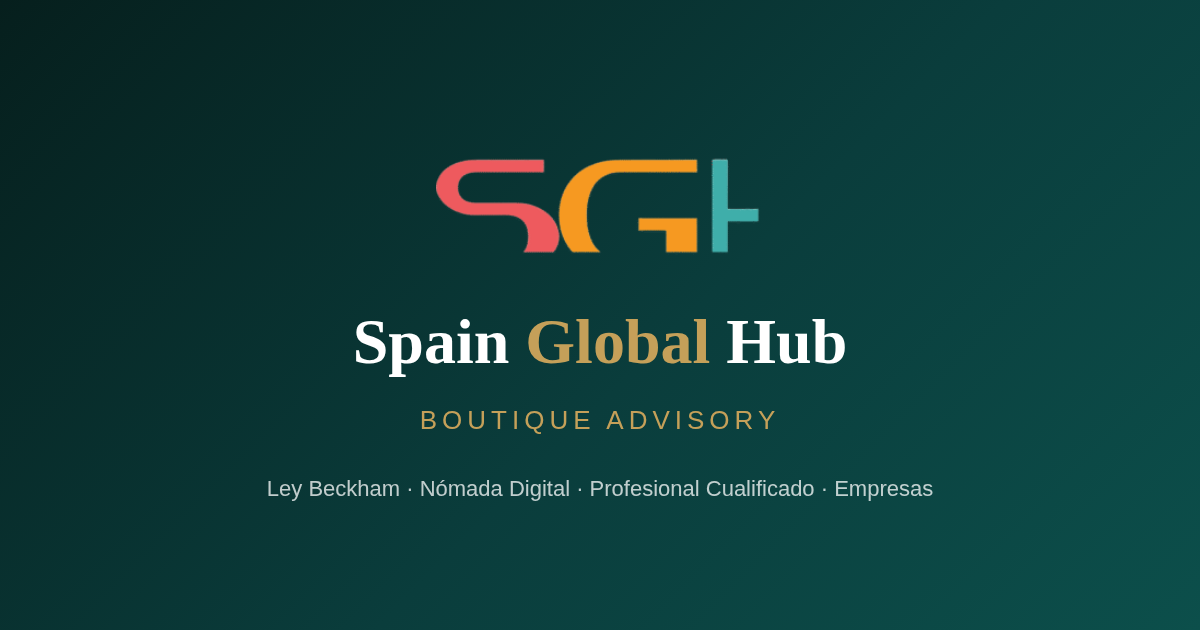
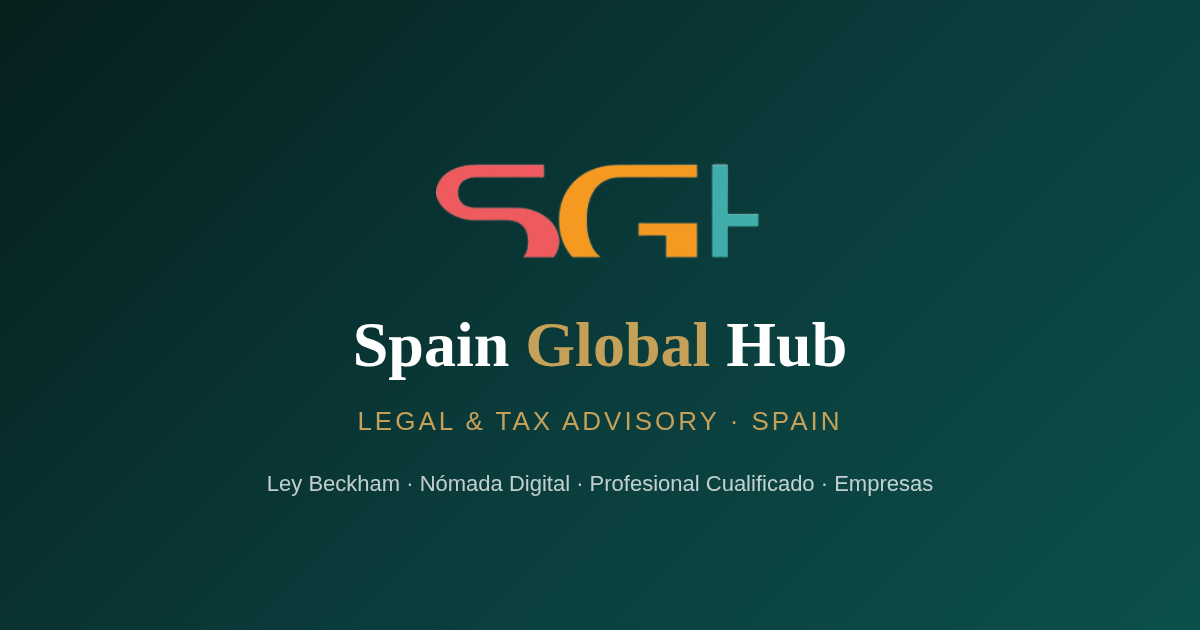
Descriptor de marca por idioma en cabecera y og-image ('Asesoría legal y fiscal para establecerse en España' / 'Legal & tax advisory for relocating to Spain' / FR) en lugar de 'Boutique Advisory'; H1 About EN
Claude-Session: https://claude.ai/code/session_01CtqNuwNKjsp65xMVq1Gaay

diff --git a/src/i18n/config.ts b/src/i18n/config.ts
@@ -23,6 +23,7 @@ export interface LangConfig {
   code: Lang;
   locale: string; // para <html lang> y Open Graph
   name: string;
+  tagline: string; // descriptor bajo el logo
   nav: {
     home: NavLink;
     services: NavLink;
@@ -62,6 +63,7 @@ export const i18nConfig: Record<Lang, LangConfig> = {
     code: 'es',
     locale: 'es_ES',
     name: 'Español',
+    tagline: 'Asesoría legal y fiscal para establecerse en España',
     nav: {
       home: { href: '/', label: 'Inicio' },
       services: { href: '/servicios/', label: 'Servicios' },
@@ -98,6 +100,7 @@ export const i18nConfig: Record<Lang, LangConfig> = {
     code: 'en',
     locale: 'en_GB',
     name: 'English',
+    tagline: 'Legal & tax advisory for relocating to Spain',
     nav: {
       home: { href: '/', label: 'Home' },
       services: { href: '/services/', label: 'Services' },
@@ -134,6 +137,7 @@ export const i18nConfig: Record<Lang, LangConfig> = {
     code: 'fr',
     locale: 'fr_FR',
     name: 'Français',
+    tagline: 'Conseil juridique et fiscal pour s’installer en Espagne',
     nav: {
       home: { href: '/', label: 'Accueil' },
       services: { href: '/services/', label: 'Services' },

diff --git a/src/content/legal/en/about.md b/src/content/legal/en/about.md
@@ -10,7 +10,7 @@ publishedDate: 2024-11-27
 updatedDate: 2026-09-11
 ---
 
-<h1>Spain Global Hub: Boutique Advisory Hub for International Clients in Spain</h1>
+<h1>Spain Global Hub: Legal and Tax Advisory for International Clients in Spain</h1>
 <br />
       <h2>Who we are</h2>
       <p>
